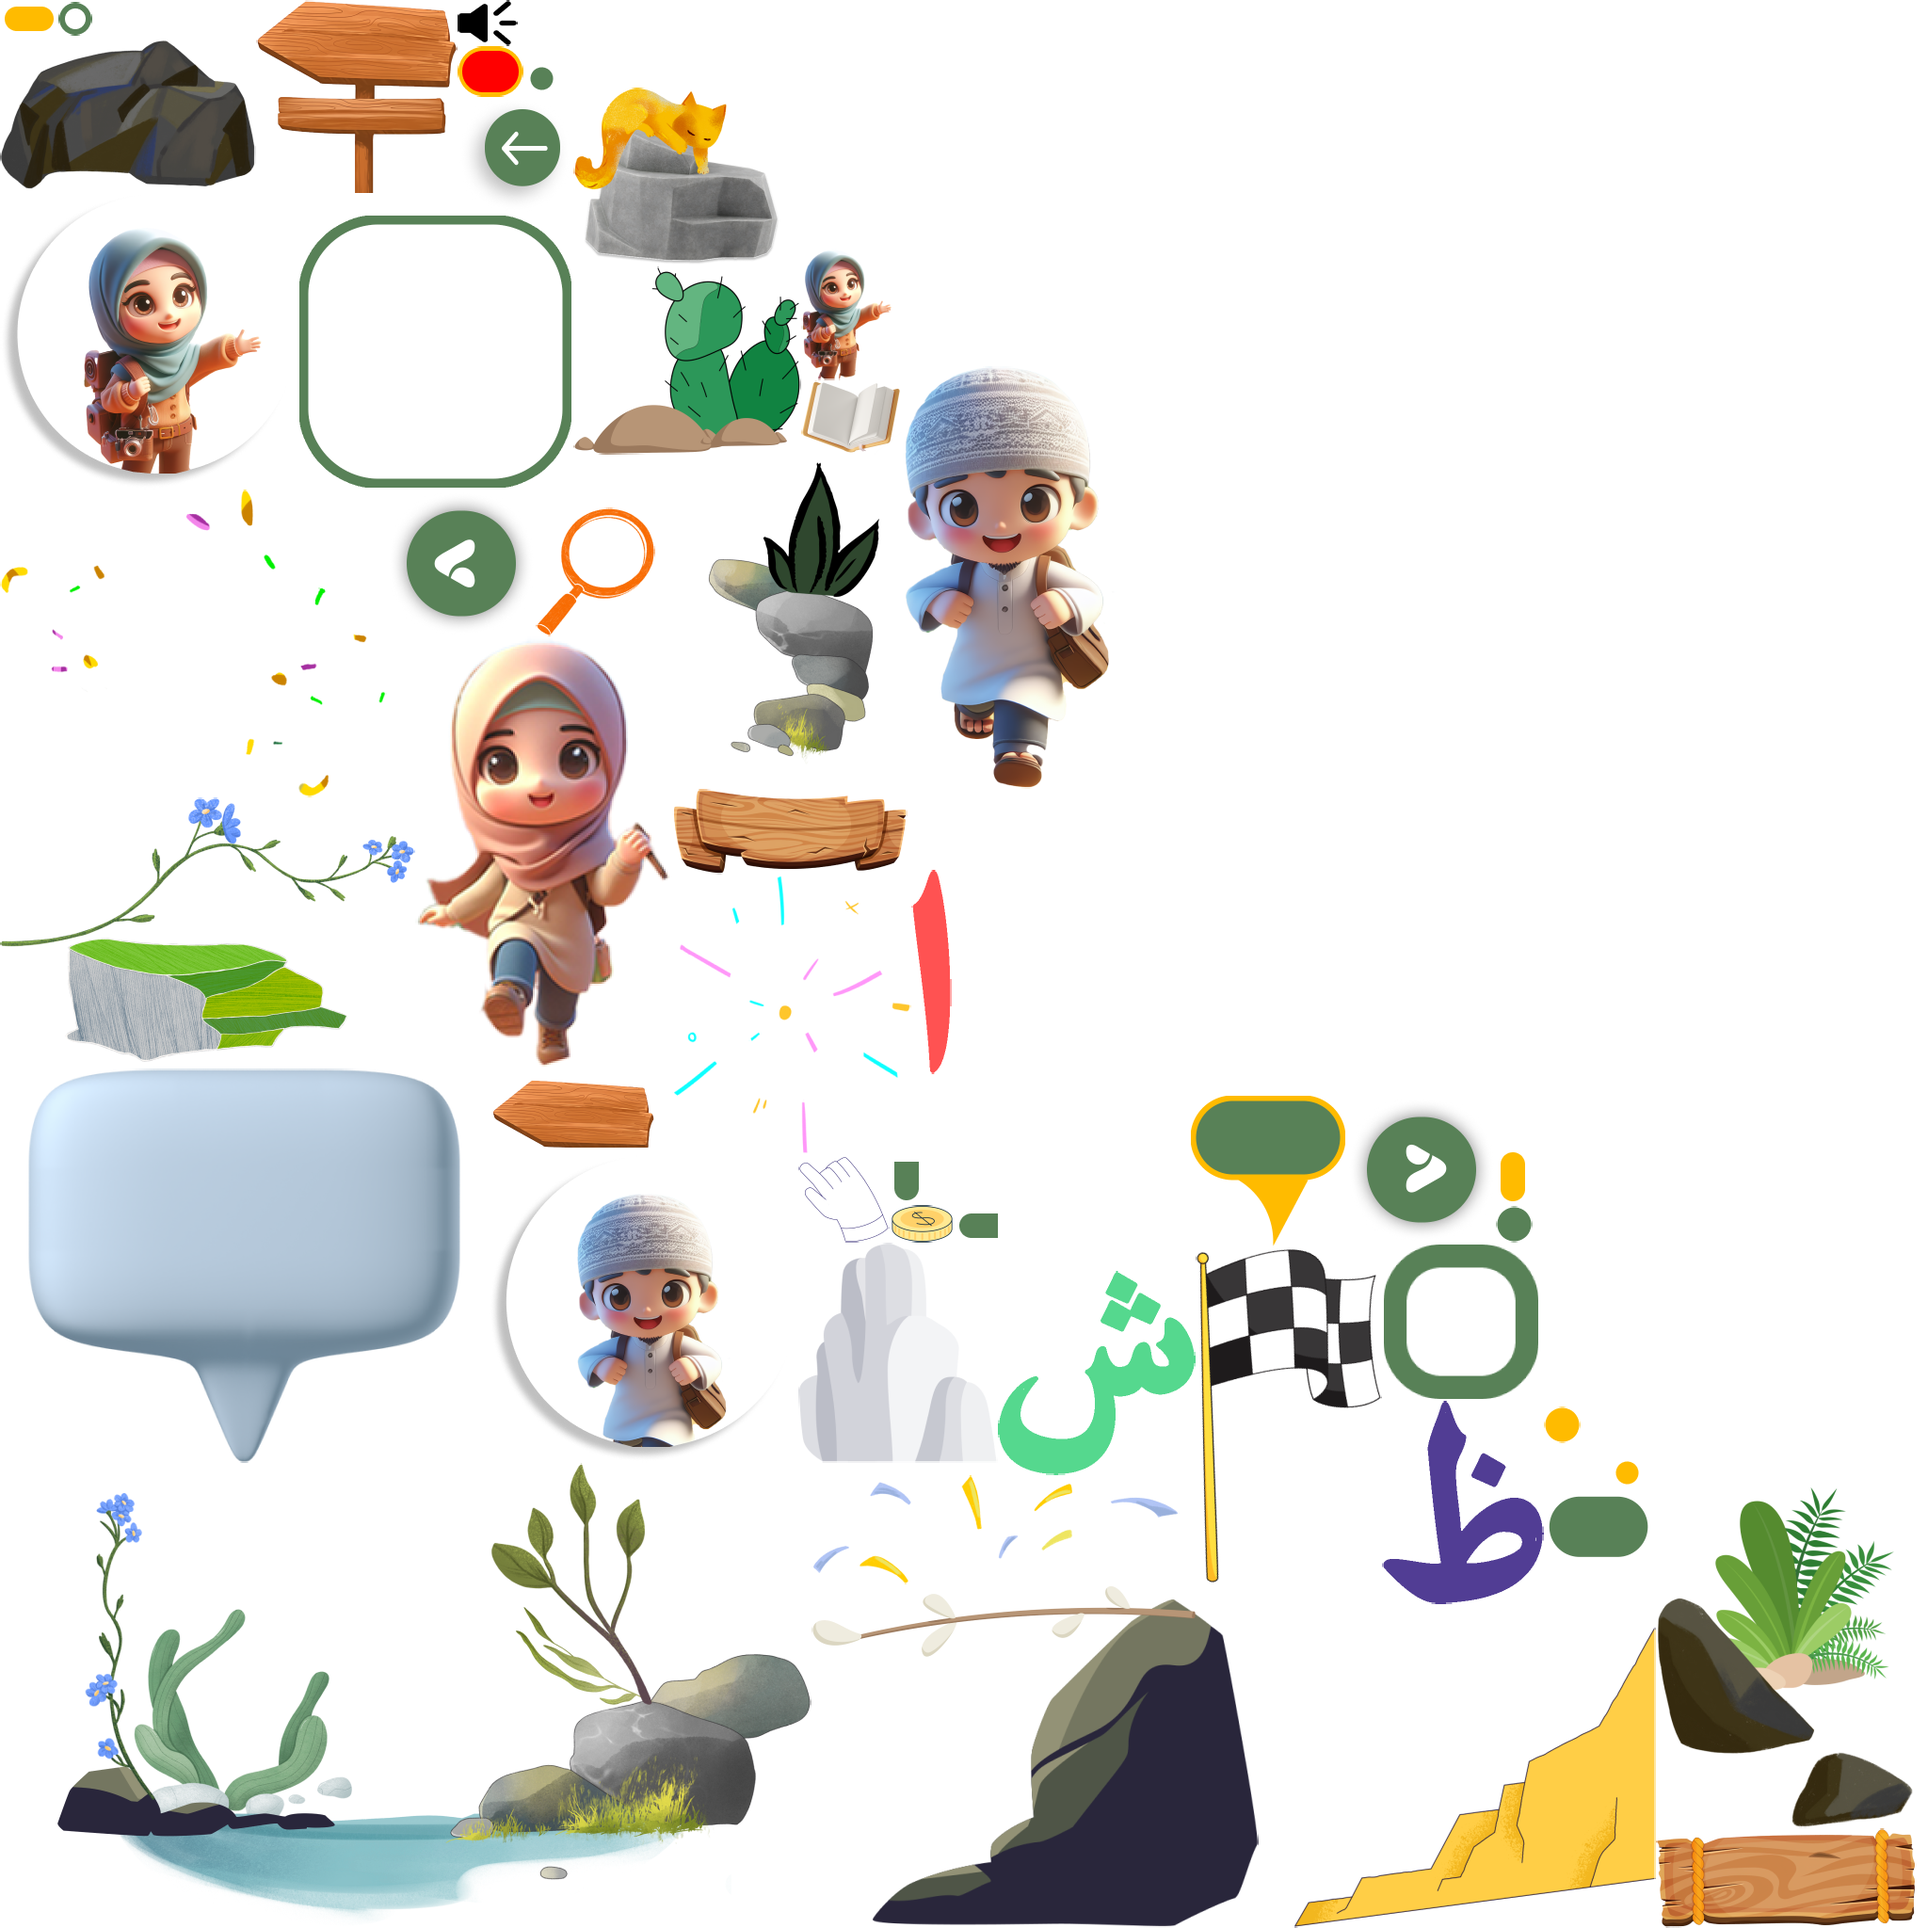
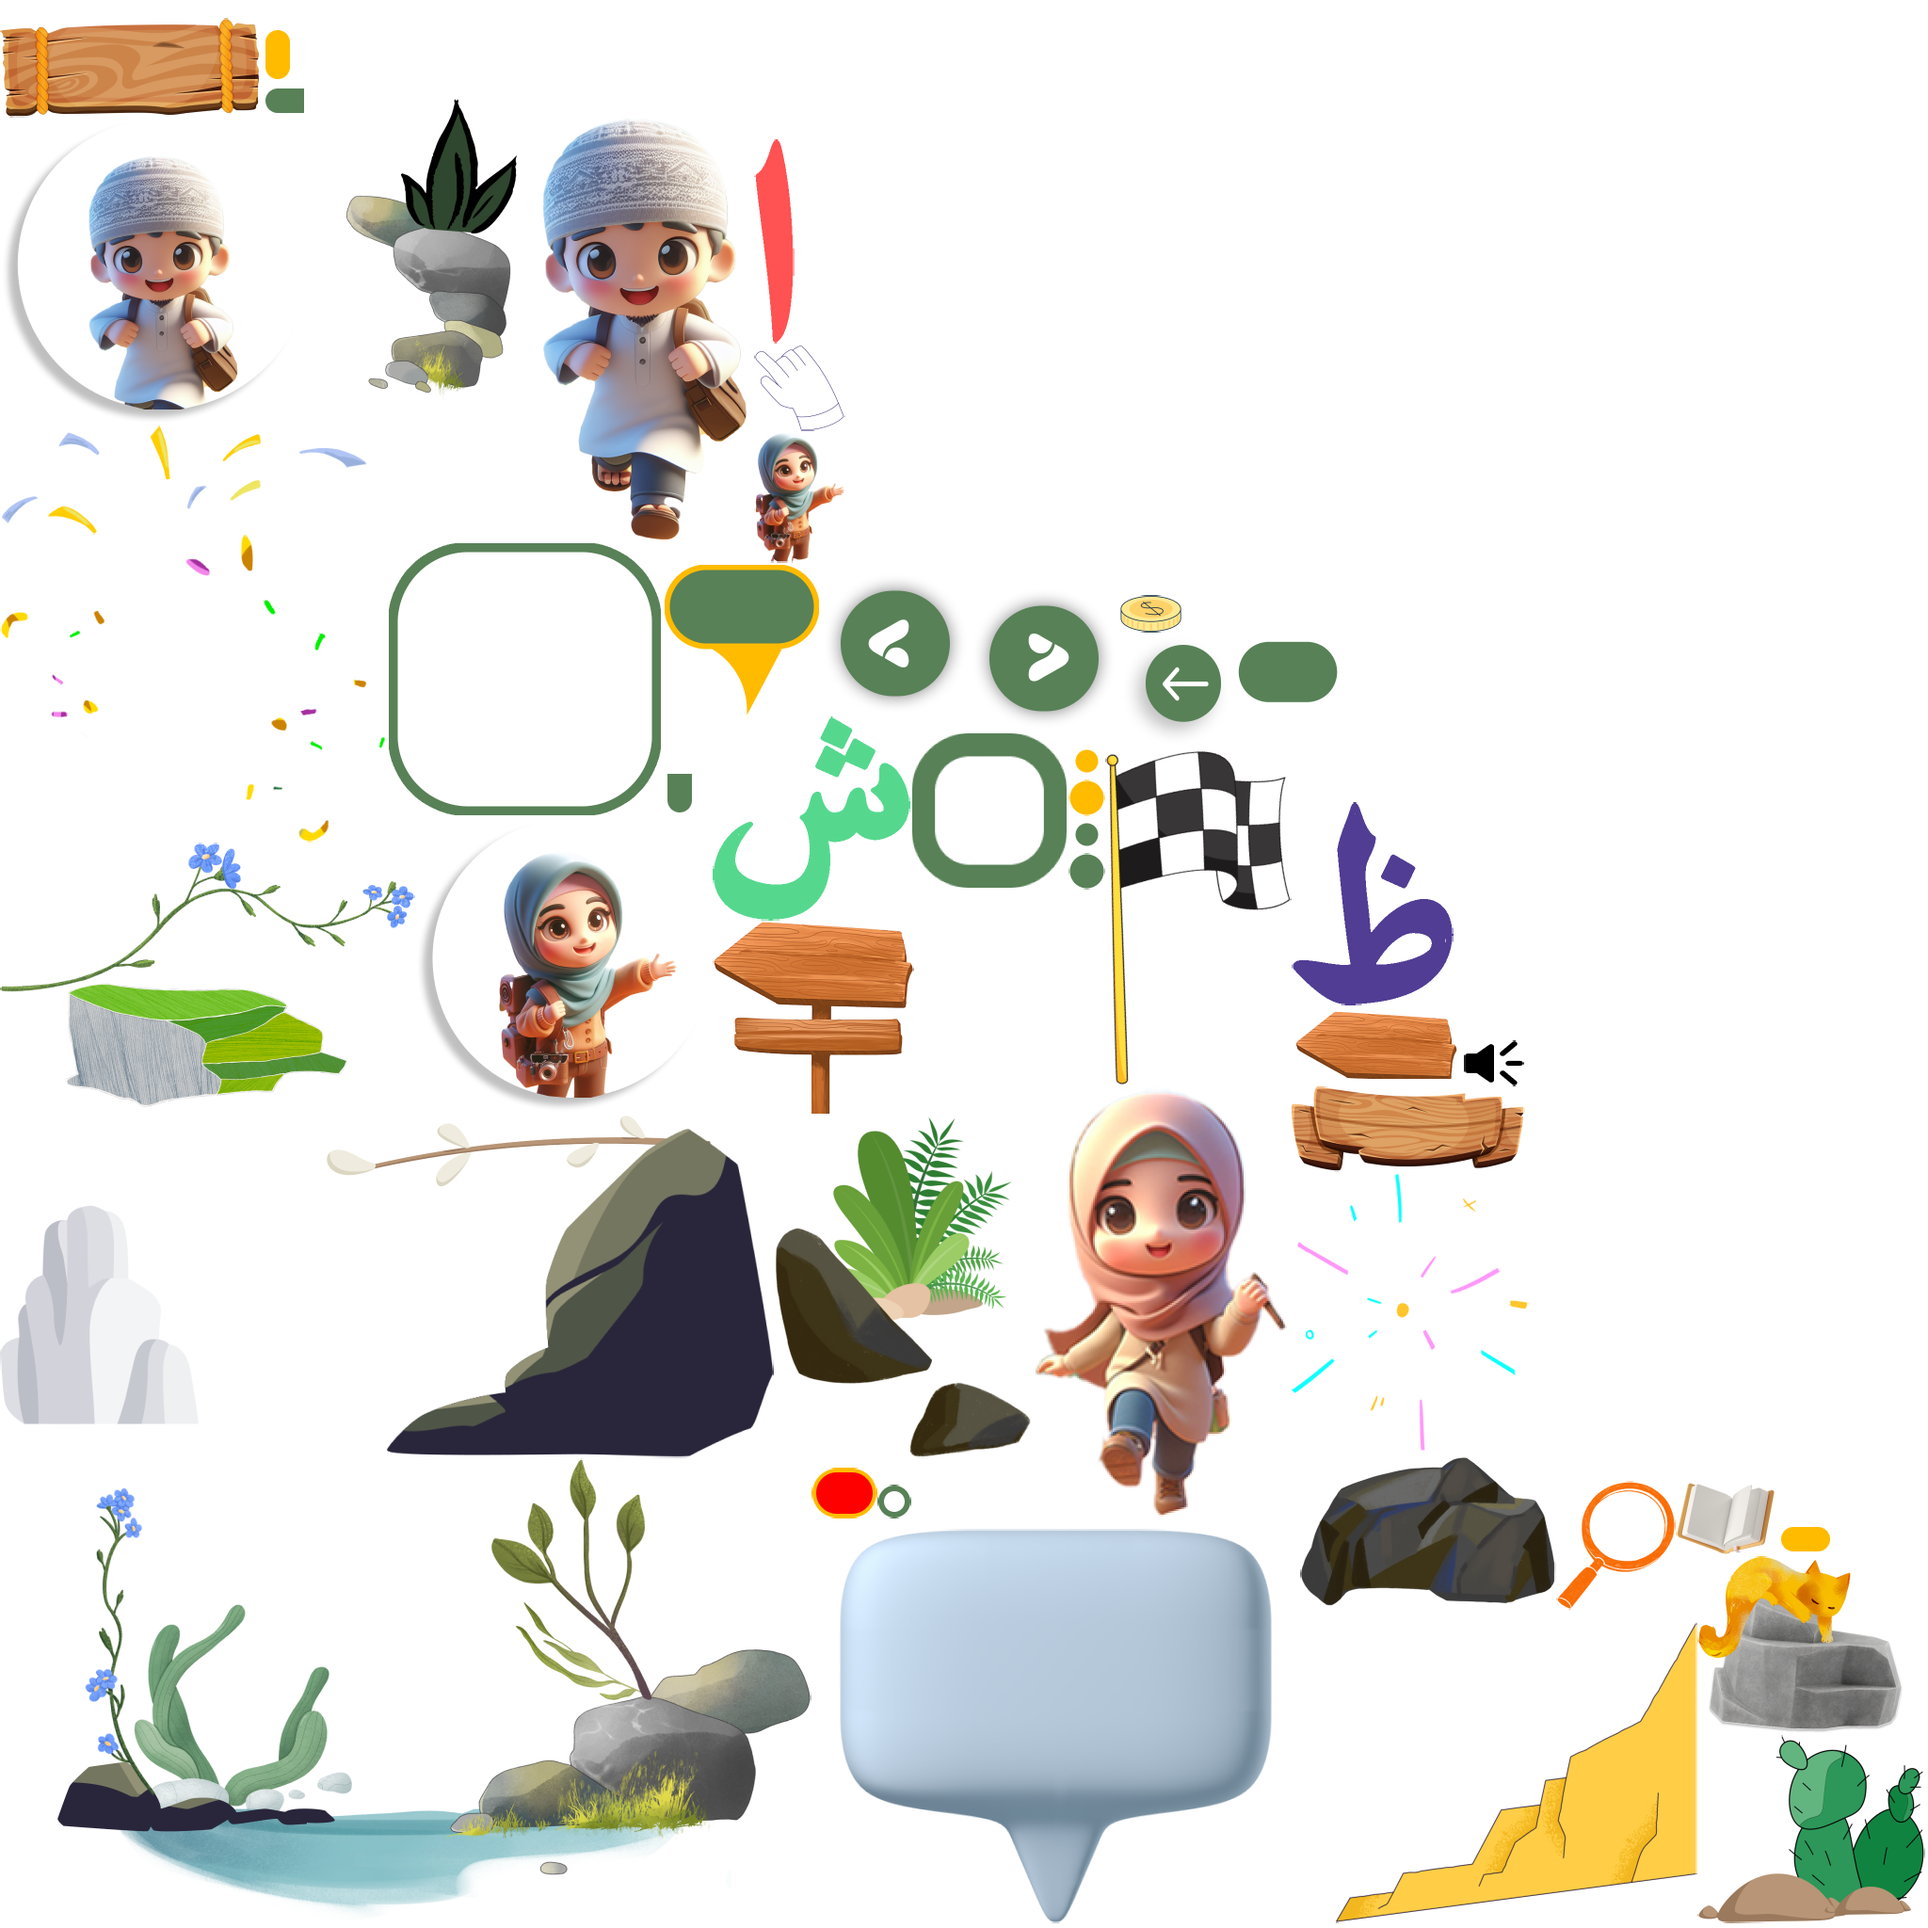
update game assets

diff --git a/core/src/main/kotlin/com/github/doandadr/petualanganhijaiyah/asset/asset.kt b/core/src/main/kotlin/com/github/doandadr/petualanganhijaiyah/asset/asset.kt
@@ -112,3 +112,44 @@ enum class TextureAtlasAsset(
     NINEPATCH("ninepatch.atlas"),
     LETTER("hijaiyah.atlas"),
 }
+
+enum class AtlasRegion(
+    val region: String,
+) {
+    BACK("back"),
+    BOARD("board"),
+    BOOK("book"),
+    BOY("boy"),
+    BOY_SELECT("boy-select"),
+    CHECKERED_FLAG("checkered-flag"),
+    CIRCLE_G("circle-g"),
+    CIRCLE_GW("circle-gw"),
+    CIRCLE_Y("circle-y"),
+    CIRCLE_YW("circle-yw"),
+    COIN("coin"),
+    CONFETTI("confetti"),
+    GIRL("girl"),
+    GIRL_SELECT("girl-select"),
+    HAND_POINTING("hand-pointing"),
+    ICON_VOLUME("icon-volume"),
+    L01_ROCK_BOULDER("l01-rock-boulder"),
+    L02_STONES_PLANT("l02-stones-plant"),
+    L03_CAT_BIGROCK("l03-cat-bigrock"),
+    L04_GRASS_TWIG("l04-grass-twig"),
+    L05_POND("l05-pond"),
+    L06_BIGSTONE("l06-bigstone"),
+    L07_ROCK_PLANTS("l07-rock-plants"),
+    L08_CLIFF("l08-cliff"),
+    L09_CACTUS_STONE("l09-cactus-stone"),
+    LEFT("left"),
+    LINE("line"),
+    MAGNIFIER("magnifier"),
+    RIGHT("right"),
+    SALUTE("salute"),
+    SIGN("sign"),
+    SIGN_SHARP("sign-sharp"),
+    SLIDER_KNOB_G("slider-knob-g"),
+    SMALL_FIREWORK("small-firework"),
+    SPEECH_BUBBLE("speech-bubble"),
+    WOOD_SCROLL("wood-scroll"),
+}

diff --git a/core/src/main/kotlin/com/github/doandadr/petualanganhijaiyah/data/data.kt b/core/src/main/kotlin/com/github/doandadr/petualanganhijaiyah/data/data.kt
@@ -1,29 +1,7 @@
 package com.github.doandadr.petualanganhijaiyah.data
 
-import com.badlogic.gdx.Preferences
 import com.github.doandadr.petualanganhijaiyah.asset.SoundAsset
-import kotlinx.coroutines.handleCoroutineException
-import java.util.*
 
-// TODO user save data (id, name, gender, game progress [levels completed, score, record, collectables], tooltips)
-class SaveData(
-    var userName: String? = null,
-    var userGender: String? = null,
-    var levelCompleteStatus: EnumMap<PrefKey, Boolean> = EnumMap<PrefKey, Boolean>(PrefKey::class.java),
-    var levelScores: EnumMap<PrefKey, Int> = EnumMap<PrefKey, Int>(PrefKey::class.java),
-    var highScore: Int? = null,
-    var tooltipDone: EnumMap<PrefKey, Boolean> = EnumMap<PrefKey, Boolean>(PrefKey::class.java),
-) {
-    fun setLevelCompleteStatus(level: PrefKey, isComplete: Boolean) {
-        if (isComplete) {
-            levelCompleteStatus[level] = true
-        }
-    }
-
-    fun setLevelScore(level: PrefKey, score: Int) {
-
-    }
-}
 enum class PrefKey {
     USER_NAME,
     USER_GENDER,
@@ -79,7 +57,6 @@ enum class LevelImg(
 // TODO stage def
 
 // TODO level data (type, )
-
 
 enum class Hijaiyah(
     val image: String,
